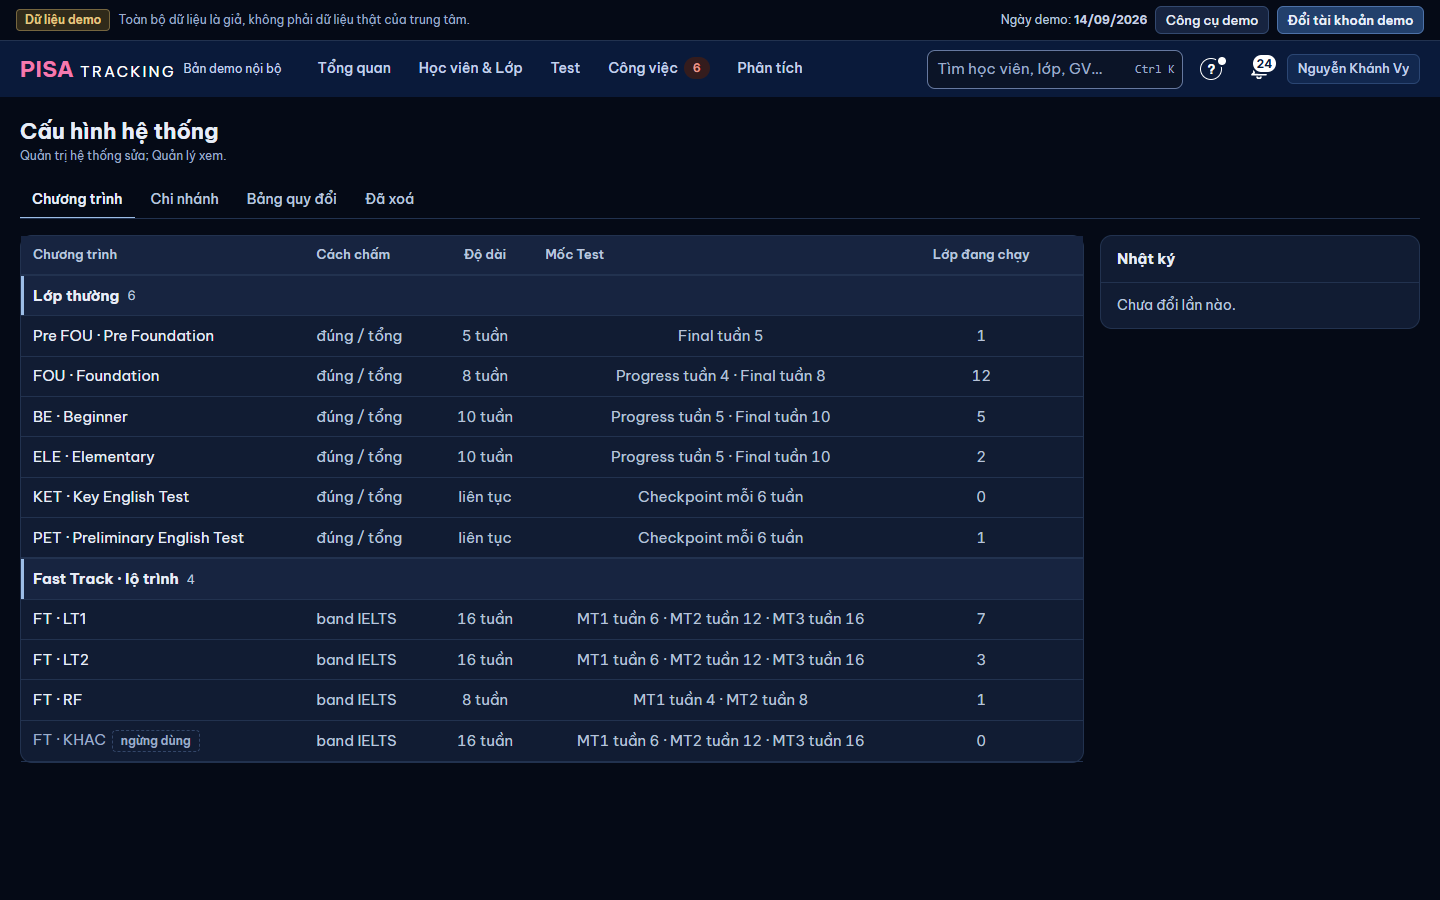
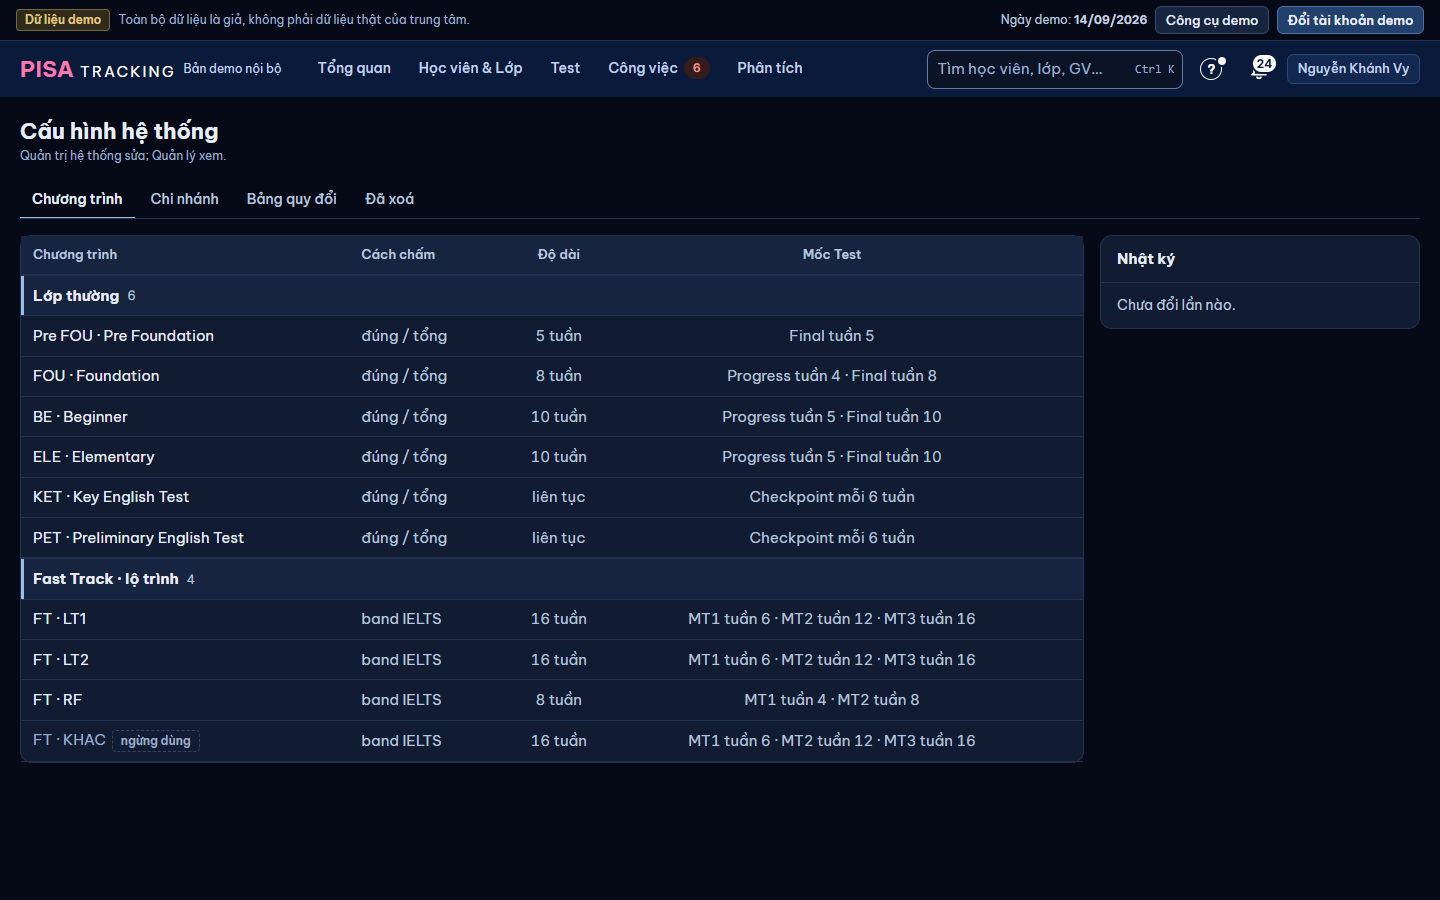
QTV2-CAU-HINH-CU: rà PTA — QL không thấy số lớp, ghép payload chi nhánh từ bản mới nhất, nhật ký cột 8 dòng (gioi-han), Esc hỏi một lần, căn tiêu đề Mốc Test

diff --git a/server/src/platform/sysconfig.ts b/server/src/platform/sysconfig.ts
@@ -5,7 +5,7 @@ import {
 } from '../../../shared/domain/index.ts';
 import { badRequest, chuTuDo, forbidden, notFound, nowIso } from '../util.ts';
 import { clearScoringModeCache } from '../fasttrack/skillSchedule.ts';
-import { require_, type Principal } from '../permissions.ts';
+import { can, require_, type Principal } from '../permissions.ts';
 import { writeAudit } from './audit.ts';
 import { xemDuocBangQuyDoi } from './bangQuyDoi.ts';
 
@@ -30,8 +30,9 @@ const loiO = (o: string, m: string) => badRequest(m, { o });
 
 /* ------------------------------------------------------------------ lộ trình */
 
-/** `includeInactive` = bản Quản trị: cả mã đã ngừng, kèm `inUse`. Bản chọn (`/ref/routes`) không có `inUse` (PR-Dọn, quét #10). */
-export function listRoutes(includeInactive = false) {
+/** `includeInactive` = bản Quản trị: cả mã đã ngừng, kèm `inUse`. Bản chọn (`/ref/routes`) không có `inUse` (PR-Dọn, quét #10).
+ *  `demSo` = kèm số "đang dùng" (lộ quy mô): chỉ Quản trị — Quản lý xem cấu hình không thấy (QTV2-CAU-HINH, PTA chốt 11/11). */
+export function listRoutes(includeInactive = false, demSo = includeInactive) {
   const conn = db();
   const rows = conn
     .prepare(`SELECT * FROM routes ${includeInactive ? '' : "WHERE status = 'active'"} ORDER BY seq, code`)
@@ -41,7 +42,7 @@ export function listRoutes(includeInactive = false) {
     /* OV-6b1: tuần học của từng MT — Quản trị sửa, chép vào lớp FT lúc tạo. */
     lichMt: docLichMt(r.lich_mt) ?? lichMtGoc(r.code),
     /* Đang có bao nhiêu lộ trình học viên dùng mã này — con số quyết định có ngừng được không. */
-    ...(includeInactive ? {
+    ...(demSo ? {
       inUse: (conn.prepare('SELECT COUNT(*) n FROM learning_cycles WHERE route = ?').get(r.code) as any).n
         + (conn.prepare('SELECT COUNT(*) n FROM classes WHERE route = ?').get(r.code) as any).n,
       lopDangChay: (conn.prepare("SELECT COUNT(*) n FROM classes WHERE is_fast_track = 1 AND route = ? AND status = 'active'").get(r.code) as any).n,
@@ -89,6 +90,8 @@ function kiemLichMt(v: unknown): number[] {
 
 export function listProgrammes(p: Principal) {
   xemCauHinh(p, 'Chỉ Quản trị hệ thống và Quản lý xem được cấu hình chương trình.');
+  /* Số lớp (lộ quy mô, PR-Dọn quét #10) chỉ ở bản Quản trị; Quản lý xem cấu hình không có. */
+  const laQt = can(p, PERMISSIONS.ADMIN_CONFIG, { anyScope: true });
   const conn = db();
   return (conn.prepare('SELECT * FROM programmes ORDER BY code').all() as any[]).map((r) => ({
     code: r.code, name: r.name, weeks: r.weeks, scoringMode: r.scoring_mode, status: r.status,
@@ -100,9 +103,11 @@ export function listProgrammes(p: Principal) {
     nguongDat: r.scoring_mode === 'ratio' ? Math.round((r.nguong_dat ?? RATIO_PASS_THRESHOLD) * 1000) / 10 : null,   // 0.725 → 72.5
     /* OV-6b2: liên tục — Checkpoint mỗi n tuần; `goc` = chương trình có sẵn trong mã (môn, cách chấm khoá); `coLop` = đã có lớp (môn khoá, mã không đổi). */
     lapMoiTuan: r.lap_moi_tuan ?? null, goc: laChuongTrinhGoc(r.code),
-    coLop: !!conn.prepare('SELECT 1 FROM classes WHERE programme_code = ? LIMIT 1').get(r.code),
-    /* Chỉ lớp ĐANG CHẠY — lớp đã kết thúc không còn chịu ảnh hưởng gì của cấu hình. */
-    lopDangChay: (conn.prepare("SELECT COUNT(*) n FROM classes WHERE programme_code = ? AND status = 'active'").get(r.code) as any).n,
+    ...(laQt ? {
+      coLop: !!conn.prepare('SELECT 1 FROM classes WHERE programme_code = ? LIMIT 1').get(r.code),
+      /* Chỉ lớp ĐANG CHẠY — lớp đã kết thúc không còn chịu ảnh hưởng gì của cấu hình. */
+      lopDangChay: (conn.prepare("SELECT COUNT(*) n FROM classes WHERE programme_code = ? AND status = 'active'").get(r.code) as any).n,
+    } : {}),
   }));
 }
 

diff --git a/server/src/platform/nhatKyQuanTri.ts b/server/src/platform/nhatKyQuanTri.ts
@@ -33,7 +33,8 @@ const docJson = (s: string | null): Record<string, unknown> => { try { const v =
 
 export type DongNhatKy = { id: number; luc: string; nguoi: string; muc: MucNhatKy; viec: string; doiTuong: string | null; truong: { ten: string; cu: string | null; moi: string | null }[] };
 
-export function nhatKyQuanTri(p: Principal, q: { muc?: string | null; nguoi?: number | null; tu?: string | null; den?: string | null; tiep?: number | null }) {
+/** `gioiHan` (1–8): cột Nhật ký của một tab — chỉ đọc đúng n dòng, không trang tiếp, không đọc danh sách người. */
+export function nhatKyQuanTri(p: Principal, q: { muc?: string | null; nguoi?: number | null; tu?: string | null; den?: string | null; tiep?: number | null; gioiHan?: number | null }) {
   const laQt = can(p, PERMISSIONS.ADMIN_CONFIG, { anyScope: true });
   if (!laQt && !xemDuocBangQuyDoi(p)) throw forbidden('Chỉ Quản trị hệ thống và Quản lý xem được nhật ký cấu hình.');
   if (q.muc && !(MUC_NHAT_KY as readonly string[]).includes(q.muc)) throw badRequest('Mục nhật ký không hợp lệ.');
@@ -41,6 +42,7 @@ export function nhatKyQuanTri(p: Principal, q: { muc?: string | null; nguoi?: nu
   if (muc && CHI_QUAN_TRI.has(muc) && !laQt) throw forbidden('Chỉ Quản trị hệ thống xem được nhật ký tài khoản và quyền.');
   const ngay = /^\d{4}-\d{2}-\d{2}$/;
   if ((q.tu && !ngay.test(q.tu)) || (q.den && !ngay.test(q.den))) throw badRequest('Ngày lọc phải dạng YYYY-MM-DD.');
+  const gioiHan = q.gioiHan ? Math.min(8, Math.max(1, Math.trunc(q.gioiHan))) : null;
   const cacMuc = muc ? [muc] : MUC_NHAT_KY.filter((m) => laQt || !CHI_QUAN_TRI.has(m));
   const loai = cacMuc.flatMap((m) => ENTITY_CUA_MUC[m]);
   const mucCua = new Map(cacMuc.flatMap((m) => ENTITY_CUA_MUC[m].map((e) => [e, m] as const)));
@@ -52,7 +54,7 @@ export function nhatKyQuanTri(p: Principal, q: { muc?: string | null; nguoi?: nu
   if (q.tiep) { where.push('a.id < ?'); ts.push(q.tiep); }
   const rows = db().prepare(
     `SELECT a.id, a.action, a.entity_type, a.entity_label, a.before_json, a.after_json, a.created_at, u.full_name AS ten
-       FROM audit_logs a LEFT JOIN users u ON u.id = a.actor_user_id WHERE ${where.join(' AND ')} ORDER BY a.id DESC LIMIT ${TRANG + 1}`,
+       FROM audit_logs a LEFT JOIN users u ON u.id = a.actor_user_id WHERE ${where.join(' AND ')} ORDER BY a.id DESC LIMIT ${gioiHan ?? TRANG + 1}`,
   ).all(...ts) as any[];
   const dong: DongNhatKy[] = rows.slice(0, TRANG).map((r) => {
     const truoc = docJson(r.before_json); const sau = docJson(r.after_json);
@@ -61,11 +63,11 @@ export function nhatKyQuanTri(p: Principal, q: { muc?: string | null; nguoi?: nu
     return { id: r.id, luc: r.created_at, nguoi: r.ten ?? 'Hệ thống', muc: mucCua.get(r.entity_type)!, viec: r.action, doiTuong: r.entity_label ?? null, truong };
   });
   /* Ô lọc "Người": ai đã từng đổi trong các mục này — chỉ trang đầu (web dùng danh sách của trang đầu). */
-  const nguoi = q.tiep ? [] : db().prepare(
+  const nguoi = q.tiep || gioiHan ? [] : db().prepare(
     `SELECT DISTINCT u.id, u.full_name AS ten FROM audit_logs a JOIN users u ON u.id = a.actor_user_id
       WHERE a.entity_type IN (${loai.map(() => '?').join(',')}) ORDER BY u.full_name`,
   ).all(...loai) as { id: number; ten: string }[];
-  return { dong, tiep: rows.length > TRANG ? dong[dong.length - 1].id : null, nguoi, muc: cacMuc };
+  return { dong, tiep: !gioiHan && rows.length > TRANG ? dong[dong.length - 1].id : null, nguoi, muc: cacMuc };
 }
 
 /** Đơn vị báo cáo (chỉ xem, tab Chi nhánh — chuyển từ `/admin/overview` cũ): một câu. */

diff --git a/web/src/ui/OSuaTaiCho.tsx b/web/src/ui/OSuaTaiCho.tsx
@@ -16,11 +16,14 @@ export function OSuaTaiCho({ giaTri, nhan, rong = 'w-full', toiDa = 300, chiXem 
   const [v, setV] = useState('');
   const [busy, setBusy] = useState(false);
   const [loi, setLoi] = useState<string | null>(null);
+  /* Esc / Đóng khi đã gõ khác → hỏi MỘT lần "Bỏ thay đổi · Ở lại" (cùng phản hồi với `SuaTaiDong`), không mất chữ đang gõ. */
+  const [hoiBo, setHoiBo] = useState(false);
   const o = useRef<HTMLInputElement>(null);
   const idLoi = useId();
   const goc = giaTri ?? '';
   if (chiXem) return <span className={goc ? 'text-slate-100' : 'text-slate-500'}>{goc || t('Chưa có')}</span>;
-  const thoi = () => { setSua(false); setLoi(null); };
+  const thoi = () => { setSua(false); setLoi(null); setHoiBo(false); };
+  const ngoai = () => { if (busy) return; if (v !== goc) setHoiBo(true); else thoi(); };
   const luu = async () => {
     if (busy) return;
     if (v.trim() === goc.trim()) { thoi(); return; }
@@ -44,13 +47,21 @@ export function OSuaTaiCho({ giaTri, nhan, rong = 'w-full', toiDa = 300, chiXem 
         onChange={(e) => setV(e.target.value)}
         onKeyDown={(e) => {
           if (e.key === 'Enter' && !e.nativeEvent.isComposing) { e.preventDefault(); void luu(); }
-          if (e.key === 'Escape') { e.preventDefault(); e.stopPropagation(); thoi(); }
+          if (e.key === 'Escape') { e.preventDefault(); e.stopPropagation(); ngoai(); }
         }} />
       {loi && <span id={idLoi} className="text-xs text-late" role="alert">{loi}</span>}
-      <span className="flex gap-1.5">
-        <button type="button" className="btn btn-sm max-sm:min-h-[44px]" disabled={busy} onClick={thoi}>{v !== goc ? t('Huỷ thay đổi') : t('Đóng')}</button>
-        <button type="button" className="btn btn-sm btn-primary max-sm:min-h-[44px]" disabled={busy} onClick={() => void luu()}>{busy ? t('Đang lưu…') : t('Lưu')}</button>
-      </span>
+      {hoiBo ? (
+        <span className="flex flex-wrap items-center gap-1.5" role="status">
+          <span className="text-xs text-slate-300">{t('Chưa lưu thay đổi')}</span>
+          <button type="button" className="btn btn-sm max-sm:min-h-[44px]" onClick={() => { setHoiBo(false); o.current?.focus(); }}>{t('Ở lại')}</button>
+          <button type="button" className="btn btn-sm max-sm:min-h-[44px]" onClick={thoi}>{t('Bỏ thay đổi')}</button>
+        </span>
+      ) : (
+        <span className="flex gap-1.5">
+          <button type="button" className="btn btn-sm max-sm:min-h-[44px]" disabled={busy} onClick={ngoai}>{v !== goc ? t('Huỷ thay đổi') : t('Đóng')}</button>
+          <button type="button" className="btn btn-sm btn-primary max-sm:min-h-[44px]" disabled={busy} onClick={() => void luu()}>{busy ? t('Đang lưu…') : t('Lưu')}</button>
+        </span>
+      )}
     </span>
   );
 }

diff --git a/web/src/modules/platform/CatalogAdmin.tsx b/web/src/modules/platform/CatalogAdmin.tsx
@@ -104,12 +104,12 @@ export function CatalogAdmin() {
               <thead>
                 <tr>
                   <th className="th">{t('Chương trình')}</th><th className="th">{t('Cách chấm')}</th><th className="th text-right">{t('Độ dài')}</th>
-                  <th className="th">{t('Mốc Test')}</th><th className="th text-right">{t('Lớp đang chạy')}</th><th className="th" />
+                  <th className="th tabular-nums">{t('Mốc Test')}</th>{quanTri && <th className="th text-right">{t('Lớp đang chạy')}</th>}<th className="th" />
                 </tr>
               </thead>
               {nhom.map((g) => (
               <tbody key={g.key}>
-                <tr><td colSpan={6} className="td border-t" style={{ borderColor: 'var(--line)', background: 'var(--surface-2)', boxShadow: 'inset 3px 0 0 var(--accent)' }}>{dai(g)}</td></tr>
+                <tr><td colSpan={quanTri ? 6 : 5} className="td border-t" style={{ borderColor: 'var(--line)', background: 'var(--surface-2)', boxShadow: 'inset 3px 0 0 var(--accent)' }}>{dai(g)}</td></tr>
                 {g.ds.map((d) => (
                   <tr key={khoaDong(d)} onClick={() => moSua(d)}
                     className={`${quanTri ? 'bam cursor-pointer' : ''} ${dangSua === khoaDong(d) ? 'row-active' : ''}`}>
@@ -118,7 +118,7 @@ export function CatalogAdmin() {
                     <td className="td whitespace-nowrap text-slate-400">{d.loai === 'ft' || d.ct.scoringMode !== 'ratio' ? 'band IELTS' : t('đúng / tổng')}</td>
                     <td className="td whitespace-nowrap text-right tabular-nums text-slate-300">{doDai(d)}</td>
                     <td className="td whitespace-nowrap tabular-nums text-slate-300">{chuMoc(d)}</td>
-                    <td className="td text-right tabular-nums text-slate-300">{soLop(d)}</td>
+                    {quanTri && <td className="td text-right tabular-nums text-slate-300">{soLop(d)}</td>}
                     <td className="td text-right">
                       {quanTri && <button type="button" className="btn btn-sm" onClick={(e) => { e.stopPropagation(); setSua(d); }}>{t('Sửa')}</button>}
                     </td>

diff --git a/web/src/modules/platform/ChiNhanhAdmin.tsx b/web/src/modules/platform/ChiNhanhAdmin.tsx
@@ -1,3 +1,4 @@
+import { useRef } from 'react';
 import { useApi } from '../../lib/useApi.ts';
 import { api, invalidate } from '../../lib/api.ts';
 import { useToast } from '../../ui/Toast.tsx';
@@ -25,12 +26,15 @@ export function ChiNhanhAdmin() {
   const donVi = useApi<{ id: number; name: string; kind: string }[]>('/admin/don-vi');
   const quanTri = !!useSession().session?.nav?.admin;
   const toast = useToast();
+  /* Giá trị vừa lưu theo chi nhánh — sửa ô thứ hai trước khi tải lại xong vẫn ghép đúng bản mới nhất (không ghi đè ô vừa lưu về giá trị cũ). */
+  const moi = useRef<Record<number, LienHe>>({});
   if (error && error.status === 403) return <Forbidden message={t('Phần này chỉ dành cho Quản trị hệ thống.')} />;
   if (error) return <Card title={t('Chi nhánh')}><ErrorState message={error.message} hint={error.hint} status={error.status} onRetry={reload} /></Card>;
 
   /** Lưu một chi nhánh; `hoanTac` = đang trả giá trị cũ (không hiện Hoàn tác lần nữa). Lỗi ném ra để ô giữ chữ + báo tại ô. */
   const gui = async (b: ChiNhanh, v: LienHe, hoanTac = false) => {
     const r = await api.put<{ truoc: LienHe }>(`/admin/chi-nhanh/${b.id}`, v);
+    moi.current[b.id] = v;
     invalidate('/ref/branches'); invalidate('/admin/nhat-ky');
     reload();
     if (hoanTac) { toast.push('ok', t('Đã hoàn tác')); return; }
@@ -38,7 +42,7 @@ export function ChiNhanhAdmin() {
       gui(b, r.truoc, true).catch((e) => toast.push('error', (e as Error).message));
     }, { key: `chi-nhanh:${b.id}` });
   };
-  const lienHe = (b: ChiNhanh): LienHe => ({ name: b.name, diaChi: b.diaChi ?? '', soDienThoai: b.soDienThoai ?? '' });
+  const lienHe = (b: ChiNhanh): LienHe => moi.current[b.id] ?? { name: b.name, diaChi: b.diaChi ?? '', soDienThoai: b.soDienThoai ?? '' };
 
   return (
     <div className="grid gap-4 xl:grid-cols-[minmax(0,1fr)_320px]">

diff --git a/server/src/tests/prQtv2Quyen.tests.ts b/server/src/tests/prQtv2Quyen.tests.ts
@@ -11,6 +11,7 @@ export async function runPrQtv2QuyenTests(t: { check: any; assert: any; assertTh
   const nk: any = await import('../platform/nhatKyQuanTri.ts');
   const sc: any = await import('../platform/sysconfig.ts');
   const nav: any = await import('../platform/nav.ts');
+  const nkMod: any = await import('../platform/nhatKyQuanTri.ts');
   console.log('\nQTV2-QUYEN — Quyền & nhật ký: nhật ký chung, quyền theo vai');
   const thu = <T>(fn: () => T): T => { conn.exec('BEGIN IMMEDIATE'); try { return fn(); } finally { conn.exec('ROLLBACK'); } };
   const cp = () => conn.prepare(`SELECT id FROM branches WHERE code = 'CP'`).get() as any;
@@ -63,5 +64,11 @@ export async function runPrQtv2QuyenTests(t: { check: any; assert: any; assertTh
     assertThrows(() => sc.luuChiNhanh(P.mbManager, cp().id, { name: 'X', diaChi: '', soDienThoai: '' }), /Quản trị/, 'QL sửa được chi nhánh');
     assertThrows(() => sc.listProgrammes(P.lrTeacher), /Quản trị/, 'GV xem được chương trình');
     assert(navOf(P.mbManager).bangQuyDoi && !navOf(P.mbManager).admin && !navOf(P.lrTeacher).bangQuyDoi, 'cờ nav cấu hình');
+    /* PTA chốt 11/11 (PR-Dọn quét #10): số "đang dùng" (lộ quy mô) chỉ ở bản Quản trị. */
+    assert(sc.listProgrammes(P.mbManager).every((x: any) => x.lopDangChay === undefined && x.coLop === undefined), 'QL thấy số lớp chương trình');
+    assert(sc.listRoutes(true, false).every((x: any) => x.inUse === undefined && x.lopDangChay === undefined), 'QL thấy số lớp lộ trình');
+    assert(sc.listProgrammes(P.admin).every((x: any) => typeof x.lopDangChay === 'number'), 'Quản trị mất số lớp');
+    const nk8 = nkMod.nhatKyQuanTri(P.mbManager, { muc: 'chi-nhanh', gioiHan: 8 });
+    assert(nk8.dong.length <= 8 && nk8.nguoi.length === 0 && nk8.tiep === null, 'gioi-han: quá 8 dòng / còn đọc danh sách người');
   });
 }

diff --git a/server/src/tests/tocDoDuong.ts b/server/src/tests/tocDoDuong.ts
@@ -424,6 +424,8 @@ export const DUONG_DO: MucDo[] = [
   { trang: 'Quản trị', vai: ['QT', 'QL'], url: '/admin/nhat-ky' },
   { trang: 'Quản trị', vai: ['QT', 'QL'], url: '/admin/nhat-ky?muc=chi-nhanh' },
   { trang: 'Quản trị', vai: ['QT', 'QL'], url: '/admin/don-vi' },
+  /* QTV2-CAU-HINH: cột Nhật ký của tab cấu hình — 8 dòng, không đọc danh sách người. */
+  { trang: 'Quản trị', vai: ['QT', 'QL'], url: '/admin/nhat-ky?muc=chi-nhanh&gioi-han=8' },
 ];
 
 /**
@@ -467,7 +469,7 @@ export const TRAN: Record<string, number> = {
   /* SUA-NHO-QUYEN: Quản trị › Tài khoản — đo 30/10 trước 138 câu (4 câu × tài khoản) → sau 11; trần = max(đo+10, ⌈đo×1,3⌉). */
   'QT /admin/accounts': 21,
   /* QTV2-QUYEN: nhật ký chung + đơn vị báo cáo (thay /admin/overview: đọc mọi tài khoản + 6 COUNT(*)) — đo 11/11: 4 · 3 câu; trần = max(đo+10, ⌈đo×1,3⌉). */
-  'QT /admin/nhat-ky': 14, 'QL /admin/nhat-ky': 14, 'QT /admin/nhat-ky?muc=chi-nhanh': 14, 'QL /admin/nhat-ky?muc=chi-nhanh': 14, 'QT /admin/don-vi': 13, 'QL /admin/don-vi': 13,
+  'QT /admin/nhat-ky': 14, 'QL /admin/nhat-ky': 14, 'QT /admin/nhat-ky?muc=chi-nhanh': 14, 'QL /admin/nhat-ky?muc=chi-nhanh': 14, 'QT /admin/don-vi': 13, 'QL /admin/don-vi': 13, 'QT /admin/nhat-ky?muc=chi-nhanh&gioi-han=8': 13, 'QL /admin/nhat-ky?muc=chi-nhanh&gioi-han=8': 13,
   /* PR-B: phiếu bàn giao đổi GV (MB FT 101, 33 em, tự điền sống) — trần = max(đo + 10, ⌈đo × 1,3⌉), đo 30/10: QL 21 · QT 20 · GVCN 21 · GVBM 20. */
   'QL /ban-giao-gv/1': 31, 'QT /ban-giao-gv/1': 30, 'GVCN /ban-giao-gv/1': 31, 'GVBM /ban-giao-gv/1': 30,
   'QL /lenh-chuyen/{lenhBg}/ban-giao': 23, 'QT /lenh-chuyen/{lenhBg}/ban-giao': 23,   // BAN-GIAO-NHAN 05/11: đo 13 → max(n+10, ⌈n×1,3⌉)

diff --git a/server/src/routes/index.ts b/server/src/routes/index.ts
@@ -3056,7 +3056,7 @@ api.get('/admin/don-vi', requireAuth, wrap((req) => nhatKyQuanTriSvc.donViBaoCao
 api.get('/admin/nhat-ky', requireAuth, wrap((req) => nhatKyQuanTriSvc.nhatKyQuanTri(principalOf(req), {
   muc: typeof req.query.muc === 'string' ? req.query.muc : null, nguoi: toInt(req.query.nguoi) ?? null,
   tu: typeof req.query.tu === 'string' ? req.query.tu : null, den: typeof req.query.den === 'string' ? req.query.den : null,
-  tiep: toInt(req.query.tiep) ?? null,
+  tiep: toInt(req.query.tiep) ?? null, gioiHan: toInt(req.query['gioi-han']) ?? null,
 })));
 
 // ==================================================================== tài khoản (vòng 4 phase 4)
@@ -3169,7 +3169,7 @@ api.get('/ref/routes', requireAuth, wrap(() => sysconfigSvc.listRoutes()));
 api.get('/admin/routes', requireAuth, wrap((req) => {
   /* QTV2-CAU-HINH: Quản lý xem (chỉ đọc) — sửa vẫn `ADMIN_CONFIG` trong `saveRoute`. */
   if (!bangQuyDoiSvc.xemDuocBangQuyDoi(principalOf(req))) throw forbidden('Chỉ Quản trị hệ thống và Quản lý xem được danh mục lộ trình đầy đủ.');
-  return sysconfigSvc.listRoutes(true);
+  return sysconfigSvc.listRoutes(true, can(principalOf(req), PERMISSIONS.ADMIN_CONFIG, { anyScope: true }));
 }));
 api.put('/admin/routes', requireAuth, wrap((req) => sysconfigSvc.saveRoute(principalOf(req), req.body ?? {})));
 api.get('/admin/programmes', requireAuth, wrap((req) => sysconfigSvc.listProgrammes(principalOf(req))));

diff --git a/web/src/modules/platform/NhatKyChung.tsx b/web/src/modules/platform/NhatKyChung.tsx
@@ -105,8 +105,8 @@ export function NhatKyChung() {
  * Quản trị: "Xem tất cả ›" mở Nhật ký chung lọc sẵn mục (tab Quyền & nhật ký). Quản lý: chỉ xem 8 dòng (tab Quyền & nhật ký là của Quản trị).
  */
 export function NhatKyMuc({ muc, quanTri }: { muc: Muc; quanTri: boolean }) {
-  const r = useApi<Trang>(`/admin/nhat-ky?muc=${muc}`);
-  const dong = (r.data?.dong ?? []).slice(0, 8);
+  const r = useApi<Trang>(`/admin/nhat-ky?muc=${muc}&gioi-han=8`);
+  const dong = r.data?.dong ?? [];
   return (
     <aside className="card min-w-0 self-start" aria-label={t('Nhật ký')}>
       <div className="flex items-center gap-2 border-b px-4 py-3" style={{ borderColor: 'var(--line)' }}>
